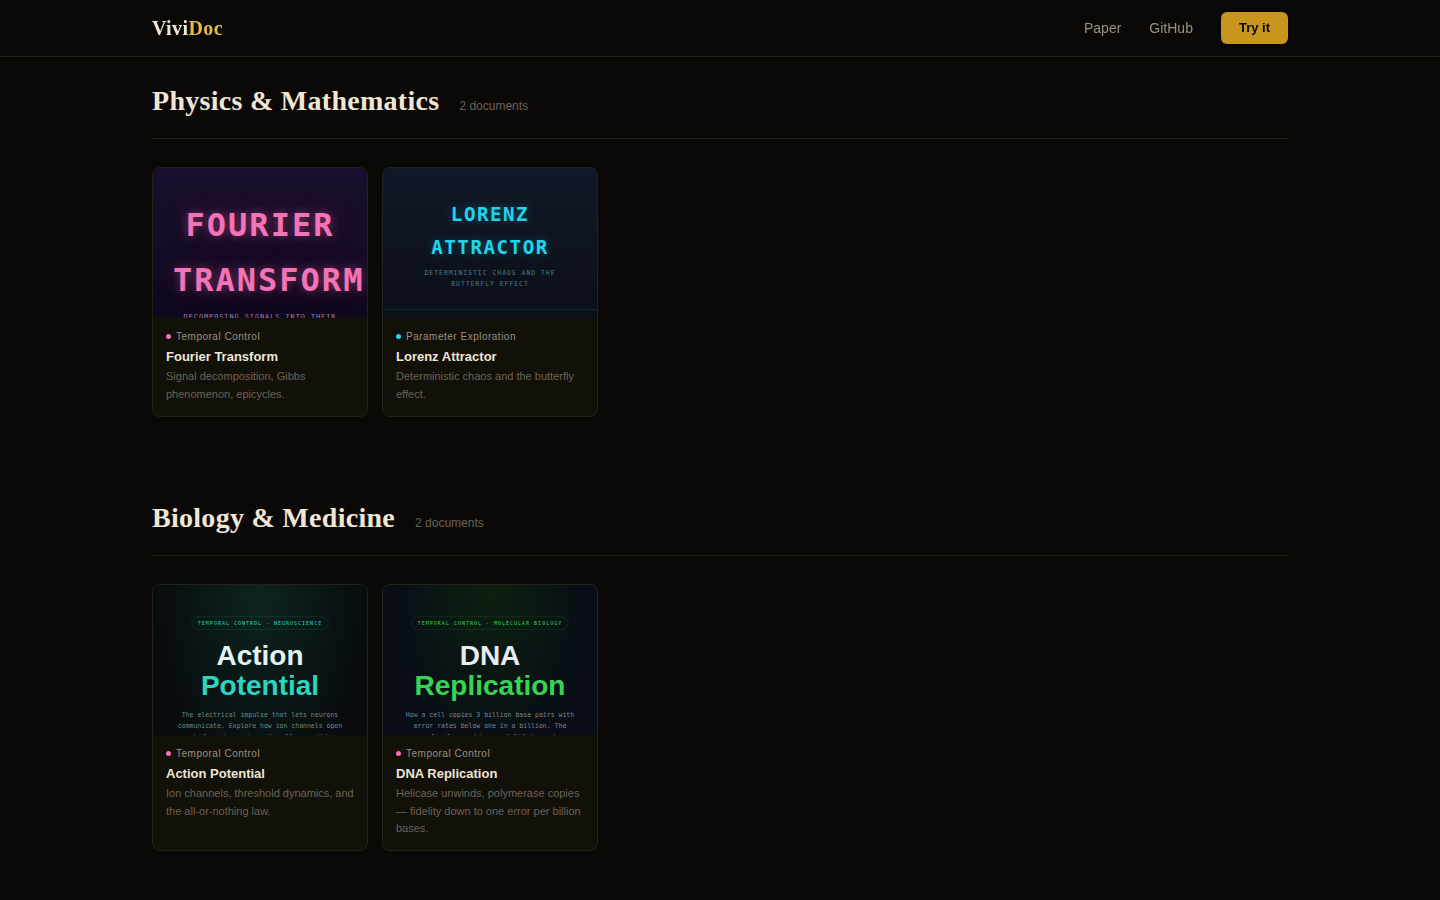
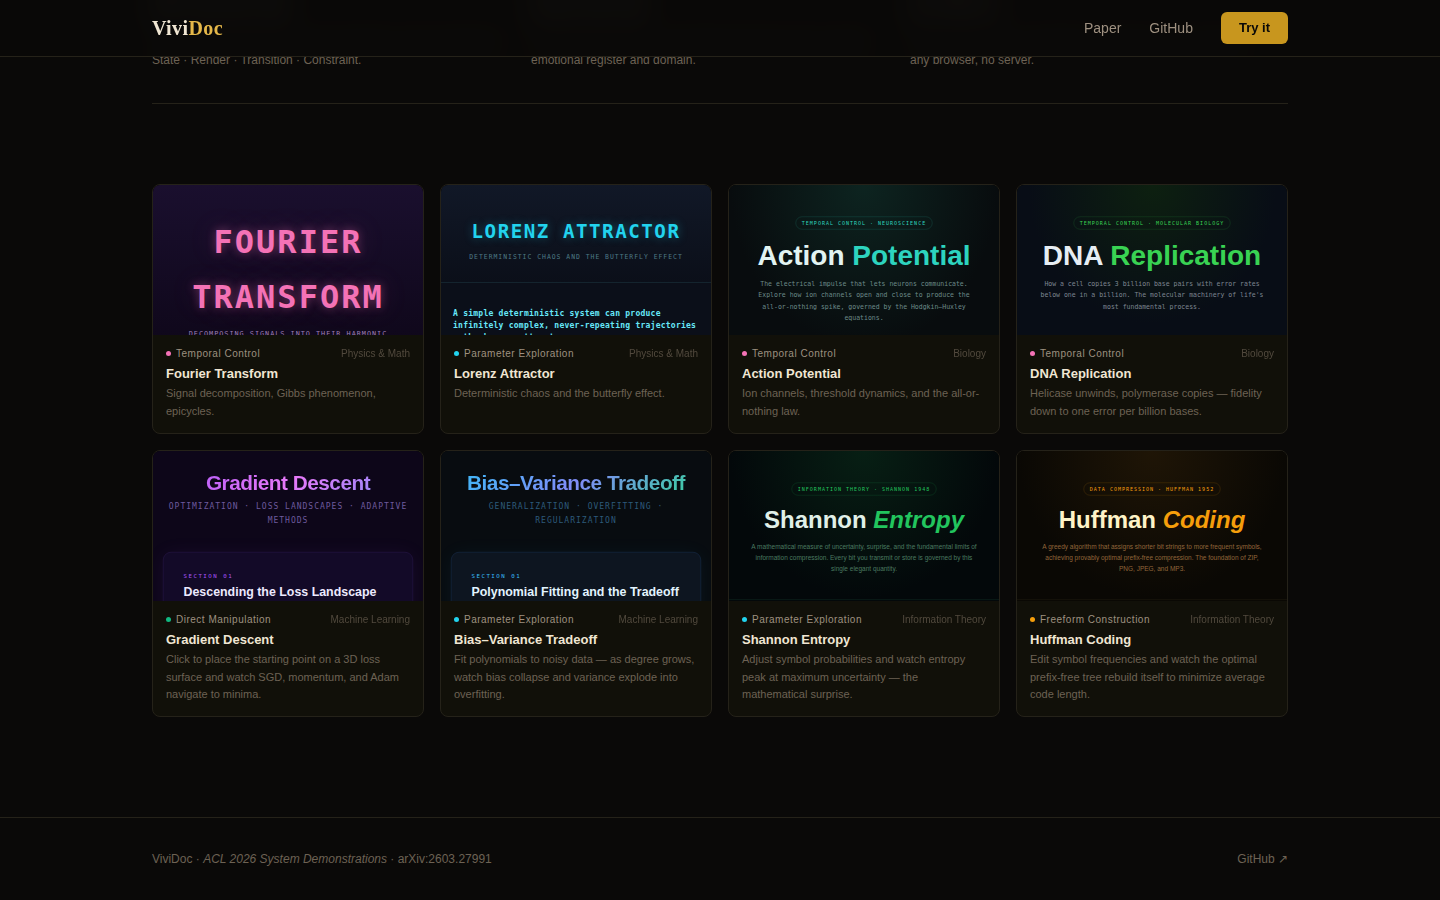
Showcase: 4-column flat grid, 8 cases across 4 domains
- Flatten domain sections into a single 4×2 grid (no per-domain headers)
- Domain label moved onto each card (top-right of info row)
- Drop Economics domain; keep Physics, Biology, ML, Information Theory
- README and screenshot updated

https://claude.ai/code/session_01XCbCncEjL3W8kQgxvbJHA9

diff --git a/frontend/src/App.tsx b/frontend/src/App.tsx
@@ -24,47 +24,15 @@ const css = `
 `;
 
 /* ── Data ── */
-const DOMAINS = [
-  {
-    id: 'physics',
-    name: 'Physics & Mathematics',
-    cases: [
-      { slug: 'fourier_transform',    title: 'Fourier Transform',      category: 'Temporal Control',      desc: 'Signal decomposition, Gibbs phenomenon, epicycles.' },
-      { slug: 'lorenz_attractor',     title: 'Lorenz Attractor',       category: 'Parameter Exploration', desc: 'Deterministic chaos and the butterfly effect.' },
-    ],
-  },
-  {
-    id: 'biology',
-    name: 'Biology & Medicine',
-    cases: [
-      { slug: 'action_potential',     title: 'Action Potential',       category: 'Temporal Control',      desc: 'Ion channels, threshold dynamics, and the all-or-nothing law.' },
-      { slug: 'dna_replication',      title: 'DNA Replication',        category: 'Temporal Control',      desc: 'Helicase unwinds, polymerase copies — fidelity down to one error per billion bases.' },
-    ],
-  },
-  {
-    id: 'ml',
-    name: 'Machine Learning',
-    cases: [
-      { slug: 'gradient_descent',     title: 'Gradient Descent',       category: 'Direct Manipulation',   desc: 'Click to place the starting point on a 3D loss surface and watch SGD, momentum, and Adam navigate to minima.' },
-      { slug: 'bias_variance',        title: 'Bias–Variance Tradeoff', category: 'Parameter Exploration', desc: 'Fit polynomials to noisy data — as degree grows, watch bias collapse and variance explode into overfitting.' },
-    ],
-  },
-  {
-    id: 'infotheory',
-    name: 'Information Theory',
-    cases: [
-      { slug: 'shannon_entropy',      title: 'Shannon Entropy',        category: 'Parameter Exploration', desc: 'Adjust symbol probabilities and watch entropy peak at maximum uncertainty — the mathematical surprise.' },
-      { slug: 'huffman_coding',       title: 'Huffman Coding',         category: 'Freeform Construction', desc: 'Edit symbol frequencies and watch the optimal prefix-free tree rebuild itself to minimize average code length.' },
-    ],
-  },
-  {
-    id: 'economics',
-    name: 'Economics & Game Theory',
-    cases: [
-      { slug: 'supply_demand',        title: 'Supply & Demand',        category: 'Direct Manipulation',   desc: 'Drag curves to shift equilibrium; add price ceilings and floors to reveal surplus and deadweight loss.' },
-      { slug: 'black_scholes',        title: 'Black–Scholes',          category: 'Parameter Exploration', desc: 'Five sliders reveal how volatility, time, and strike price determine option value and the Greeks.' },
-    ],
-  },
+const CASES = [
+  { slug: 'fourier_transform',    title: 'Fourier Transform',      domain: 'Physics & Math',      category: 'Temporal Control',      desc: 'Signal decomposition, Gibbs phenomenon, epicycles.' },
+  { slug: 'lorenz_attractor',     title: 'Lorenz Attractor',       domain: 'Physics & Math',      category: 'Parameter Exploration', desc: 'Deterministic chaos and the butterfly effect.' },
+  { slug: 'action_potential',     title: 'Action Potential',       domain: 'Biology',             category: 'Temporal Control',      desc: 'Ion channels, threshold dynamics, and the all-or-nothing law.' },
+  { slug: 'dna_replication',      title: 'DNA Replication',        domain: 'Biology',             category: 'Temporal Control',      desc: 'Helicase unwinds, polymerase copies — fidelity down to one error per billion bases.' },
+  { slug: 'gradient_descent',     title: 'Gradient Descent',       domain: 'Machine Learning',    category: 'Direct Manipulation',   desc: 'Click to place the starting point on a 3D loss surface and watch SGD, momentum, and Adam navigate to minima.' },
+  { slug: 'bias_variance',        title: 'Bias–Variance Tradeoff', domain: 'Machine Learning',    category: 'Parameter Exploration', desc: 'Fit polynomials to noisy data — as degree grows, watch bias collapse and variance explode into overfitting.' },
+  { slug: 'shannon_entropy',      title: 'Shannon Entropy',        domain: 'Information Theory',  category: 'Parameter Exploration', desc: 'Adjust symbol probabilities and watch entropy peak at maximum uncertainty — the mathematical surprise.' },
+  { slug: 'huffman_coding',       title: 'Huffman Coding',         domain: 'Information Theory',  category: 'Freeform Construction', desc: 'Edit symbol frequencies and watch the optimal prefix-free tree rebuild itself to minimize average code length.' },
 ];
 
 const CATEGORY_DOT: Record<string, string> = {
@@ -79,7 +47,7 @@ const CATEGORY_DOT: Record<string, string> = {
 };
 
 /* ── Sub-components ── */
-function CaseCard({ c, onOpen }: { c: { slug: string; title: string; category: string; desc: string }; onOpen: (s: string) => void }) {
+function CaseCard({ c, onOpen }: { c: { slug: string; title: string; domain: string; category: string; desc: string }; onOpen: (s: string) => void }) {
   return (
     <div
       onClick={() => onOpen(c.slug)}
@@ -117,14 +85,19 @@ function CaseCard({ c, onOpen }: { c: { slug: string; title: string; category: s
 
       {/* Info */}
       <div style={{ padding: '11px 13px 13px' }}>
-        <div style={{ display: 'flex', alignItems: 'center', gap: 5, marginBottom: 5 }}>
-          <span style={{
-            width: 5, height: 5, borderRadius: '50%',
-            background: CATEGORY_DOT[c.category] || '#888',
-            flexShrink: 0,
-          }} />
-          <span style={{ fontSize: 10, color: 'var(--dim)', fontFamily: 'Inter, sans-serif', letterSpacing: '0.05em' }}>
-            {c.category}
+        <div style={{ display: 'flex', alignItems: 'center', justifyContent: 'space-between', marginBottom: 5 }}>
+          <div style={{ display: 'flex', alignItems: 'center', gap: 5 }}>
+            <span style={{
+              width: 5, height: 5, borderRadius: '50%',
+              background: CATEGORY_DOT[c.category] || '#888',
+              flexShrink: 0,
+            }} />
+            <span style={{ fontSize: 10, color: 'var(--dim)', fontFamily: 'Inter, sans-serif', letterSpacing: '0.05em' }}>
+              {c.category}
+            </span>
+          </div>
+          <span style={{ fontSize: 10, color: 'var(--muted)', fontFamily: 'Inter, sans-serif', opacity: 0.7 }}>
+            {c.domain}
           </span>
         </div>
         <p style={{ fontSize: 13, fontWeight: 600, color: 'var(--text)', fontFamily: 'Inter, sans-serif', marginBottom: 3, lineHeight: 1.3 }}>
@@ -244,35 +217,17 @@ export default function App() {
         </div>
       </section>
 
-      {/* Domain sections */}
+      {/* Cases grid — flat 4-column layout */}
       <div style={{ maxWidth: 1200, margin: '0 auto', padding: '0 32px 100px' }}>
-        {DOMAINS.map((domain) => (
-          <section key={domain.id} style={{ marginBottom: 80 }}>
-            {/* Domain header */}
-            <div style={{ display: 'flex', alignItems: 'baseline', gap: 20, marginBottom: 28, paddingBottom: 16, borderBottom: '1px solid var(--border)' }}>
-              <h2 style={{
-                fontFamily: "'Playfair Display', serif",
-                fontSize: 28, fontWeight: 700,
-                color: 'var(--text)',
-                letterSpacing: '0.01em',
-              }}>{domain.name}</h2>
-              <span style={{ fontFamily: 'Inter, sans-serif', fontSize: 12, color: 'var(--muted)' }}>
-                {domain.cases.length} document{domain.cases.length > 1 ? 's' : ''}
-              </span>
-            </div>
-
-            {/* Cases grid */}
-            <div style={{
-              display: 'grid',
-              gridTemplateColumns: 'repeat(auto-fill, minmax(210px, 1fr))',
-              gap: 14,
-            }}>
-              {domain.cases.map(c => (
-                <CaseCard key={c.slug} c={c} onOpen={setOpenSlug} />
-              ))}
-            </div>
-          </section>
-        ))}
+        <div style={{
+          display: 'grid',
+          gridTemplateColumns: 'repeat(4, 1fr)',
+          gap: 16,
+        }}>
+          {CASES.map(c => (
+            <CaseCard key={c.slug} c={c} onOpen={setOpenSlug} />
+          ))}
+        </div>
       </div>
 
       {/* Footer */}

diff --git a/README.md b/README.md
@@ -134,7 +134,7 @@ Reference implementations (self-contained HTML + SRTC spec + style guide) for al
 
 **[→ Browse all documents at vividoc.vercel.app](https://vividoc.vercel.app)**
 
-10 hand-verified documents across 5 domains, each generated by ViviDoc and reviewed for pedagogical accuracy:
+8 hand-verified documents across 4 domains, each generated by ViviDoc and reviewed for pedagogical accuracy:
 
 | Document | Domain | Interaction | Key Concept |
 |---|---|---|---|
@@ -146,8 +146,6 @@ Reference implementations (self-contained HTML + SRTC spec + style guide) for al
 | [Bias–Variance Tradeoff](https://vividoc.vercel.app) | Machine Learning | Parameter Exploration | Overfitting, regularization, model complexity |
 | [Shannon Entropy](https://vividoc.vercel.app) | Information Theory | Parameter Exploration | Information content, source coding theorem |
 | [Huffman Coding](https://vividoc.vercel.app) | Information Theory | Freeform Construction | Prefix-free codes, optimal compression, entropy bound |
-| [Supply & Demand](https://vividoc.vercel.app) | Economics | Direct Manipulation | Equilibrium, elasticity, deadweight loss |
-| [Black–Scholes](https://vividoc.vercel.app) | Economics | Parameter Exploration | Option pricing, the Greeks, IV smile |
 
 ---
 
